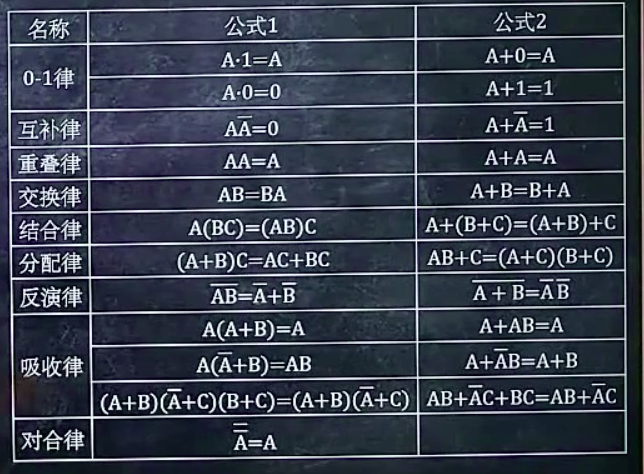
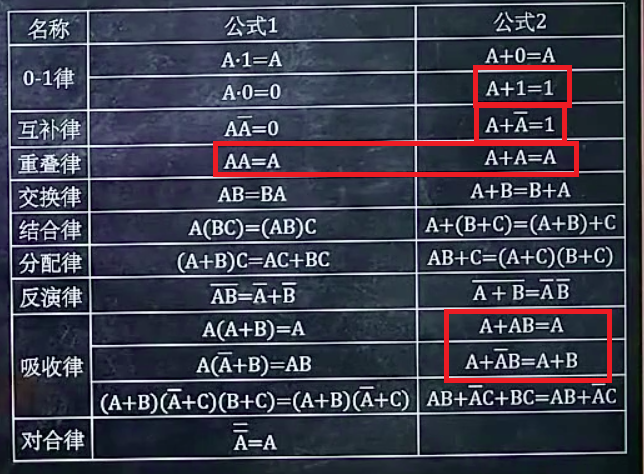
append

Changed region(s): [[0.3106, 0.1181, 0.9006, 0.384], [0.6832, 0.6498, 0.9627, 0.827]]

diff --git a/04_逻辑代数常用公式.md b/04_逻辑代数常用公式.md
@@ -1,5 +1,34 @@
-#常用公式
+#公式法化简逻辑表达式
 ![](img/04-01.png)
+
+真正用的频繁的只有画圈的那几个
+
+##吸收法
+
+![img](http://image109.360doc.com/DownloadImg/2018/01/0913/121404191_17_20180109015629390.jpg) 
+
+此时可以将B看作是多余的乘积项
+
+![](C:\Users\Jasonleee\Desktop\DigitalCircuits\img\04-02.jpg)
+
+上述例子中画框的部分都可以看做是B然后消掉
+
+## 消去法
+
+![img](http://image109.360doc.com/DownloadImg/2018/01/0913/121404191_22_20180109015629656.jpg) 
+
+此时**A非**可以看做是多余因子
+
+## 配项法
+
+利用表格中的重叠率
+
+**建议练习题**：P22页1-14
+
+PS：这块硬背是没卵用的，还是找几个题写写心里比较踏实
+
+
+
 #逻辑代数的三条规则
 ##代入规则
 多变量可以等价代替原式中某一单变量
